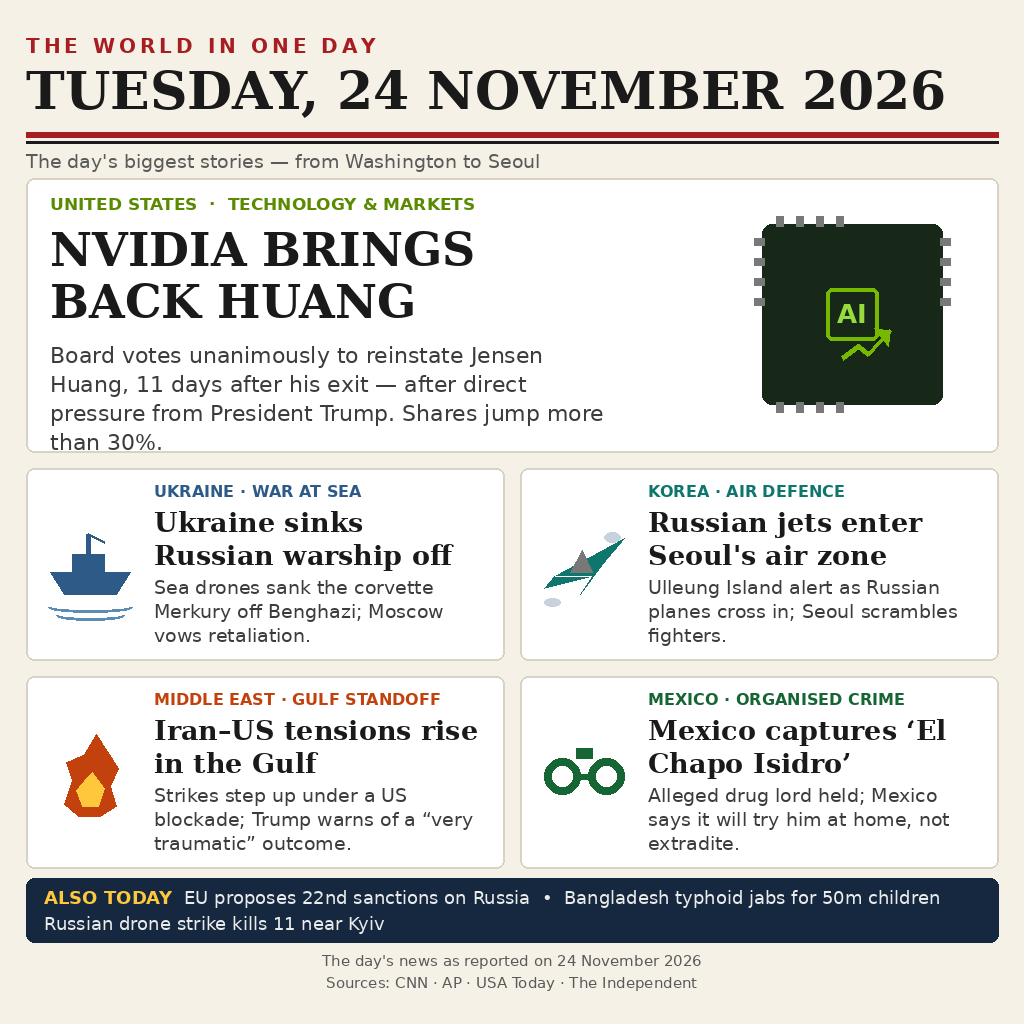
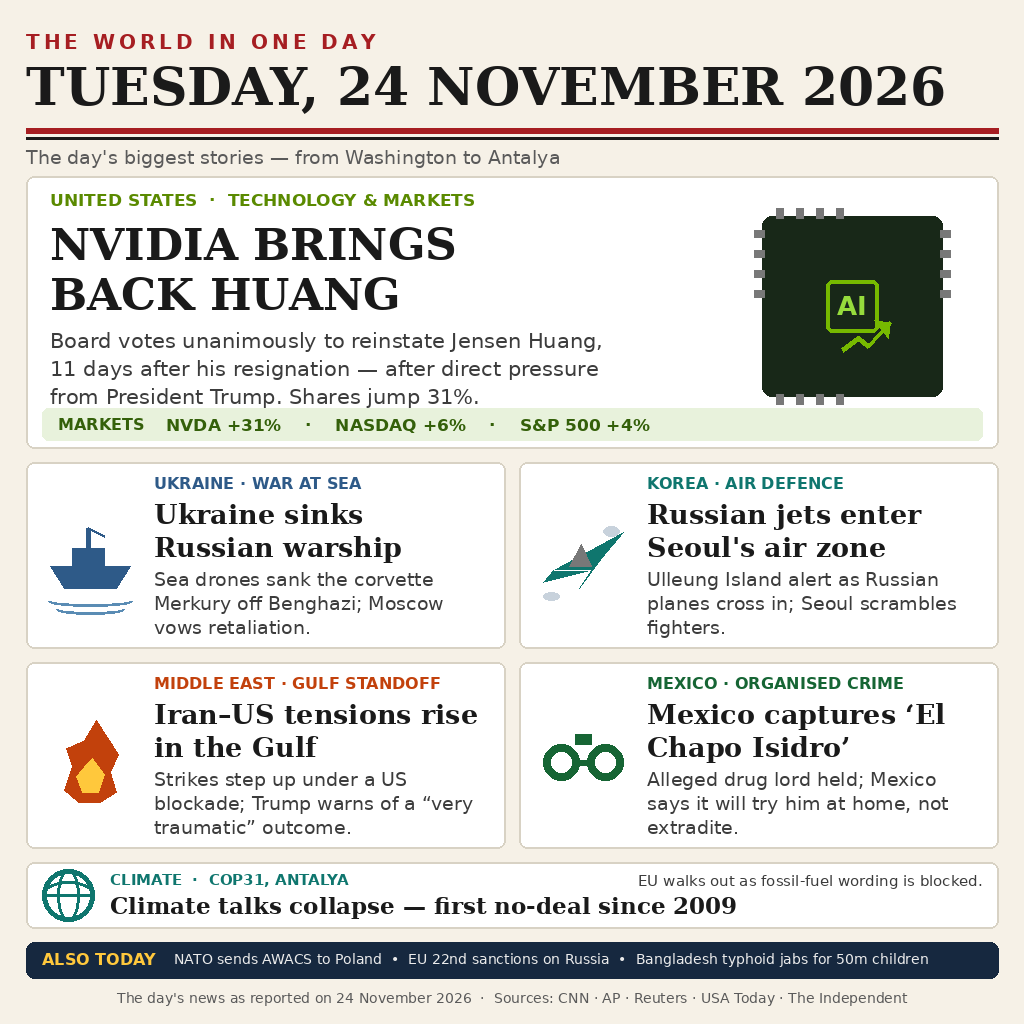
Version 2: markets strip, COP31 card, NATO ticker

diff --git a/build-image.py b/build-image.py
@@ -1,8 +1,13 @@
 #!/usr/bin/env python3
-"""Render the 24 November 2026 world-news front page (1024x1024 PNG).
+"""Render the 24 November 2026 world-news front page, version 2 (1024x1024 PNG).
+
+v2 changes over v1: markets data strip under the lead story (NVDA +31%,
+NASDAQ +6%, S&P 500 +4%); a full-width COP31 card (climate talks collapse,
+first no-deal since 2009); NATO AWACS / Poland missiles join the ticker;
+Ukraine headline shortened so it is no longer cut off at two lines.
 
 Deterministic: fixed text, fonts and drawing calls; no timestamps, no network.
-Output: entry.png next to this script (copied into the entry repo).
+Output: entry.png next to this script.
 """
 from PIL import Image, ImageDraw, ImageFont
 
@@ -15,6 +20,8 @@ RED = (166, 30, 34)
 NAVY = (22, 40, 63)
 RULE = (216, 210, 196)
 GREEN = (90, 138, 0)
+STRIP = (232, 242, 220)
+DARKGREEN = (52, 96, 10)
 
 SERIF_B = "/usr/share/fonts/truetype/dejavu/DejaVuSerif-Bold.ttf"
 SANS = "/usr/share/fonts/truetype/dejavu/DejaVuSans.ttf"
@@ -105,17 +112,26 @@ def icon_cuffs(d, box, accent):
     d.line([(x0 + 44, y0 + 48), (x0 + 52, y0 + 48)], fill=accent, width=6)
     d.rectangle([x0 + 40, y0 + 20, x0 + 56, y0 + 30], fill=accent)
 
+def icon_globe(d, box, accent):
+    x0, y0, x1, y1 = box
+    cx, cy = (x0 + x1) // 2, (y0 + y1) // 2
+    r = 26
+    d.ellipse([cx - r, cy - r, cx + r, cy + r], outline=accent, width=5)
+    d.ellipse([cx - 11, cy - r, cx + 11, cy + r], outline=accent, width=3)
+    d.line([(cx - r, cy), (cx + r, cy)], fill=accent, width=3)
+    d.arc([cx - r, cy - 14, cx + r, cy + 14], 200, 340, fill=accent, width=3)
+
 # ---------------- page ----------------
 img = Image.new("RGB", (W, H), PAPER)
 d = ImageDraw.Draw(img)
 MX = 26  # margin
 
 # masthead
-spaced(d, (MX, 34), "THE WORLD IN ONE DAY", font(SANS_B, 20), RED, tracking=4)
-d.text((MX, 60), "TUESDAY, 24 NOVEMBER 2026", font=font(SERIF_B, 52), fill=INK)
-d.rectangle([MX, 132, W - MX, 137], fill=RED)
-d.rectangle([MX, 141, W - MX, 143], fill=INK)
-d.text((MX, 150), "The day's biggest stories \u2014 from Washington to Seoul",
+spaced(d, (MX, 30), "THE WORLD IN ONE DAY", font(SANS_B, 20), RED, tracking=4)
+d.text((MX, 56), "TUESDAY, 24 NOVEMBER 2026", font=font(SERIF_B, 52), fill=INK)
+d.rectangle([MX, 128, W - MX, 133], fill=RED)
+d.rectangle([MX, 137, W - MX, 139], fill=INK)
+d.text((MX, 146), "The day's biggest stories \u2014 from Washington to Antalya",
        font=font(SANS, 19), fill=MUTED)
 
 def panel(x, y, w, h, kicker, accent, headline, sub, icon=None):
@@ -125,9 +141,9 @@ def panel(x, y, w, h, kicker, accent, headline, sub, icon=None):
         icon(d, (x + 16, y + 52, x + 112, y + 148), accent)
         tx = x + 128
     tw = x + w - 16 - tx
-    d.text((tx, y + 14), kicker, font=font(SANS_B, 16), fill=accent)
+    d.text((tx, y + 12), kicker, font=font(SANS_B, 16), fill=accent)
     lines = wrap(d, headline, font(SERIF_B, 27), tw)
-    yy = y + 38
+    yy = y + 36
     for ln in lines[:2]:
         d.text((tx, yy), ln, font=font(SERIF_B, 27), fill=INK)
         yy += 33
@@ -137,27 +153,33 @@ def panel(x, y, w, h, kicker, accent, headline, sub, icon=None):
         yy += 24
 
 # lead story
-LY, LH = 178, 274
+LY, LH = 176, 272
 d.rounded_rectangle([MX, LY, W - MX, LY + LH], radius=8, fill=CARD, outline=RULE, width=2)
-d.text((MX + 24, LY + 16), "UNITED STATES  \u00b7  TECHNOLOGY & MARKETS",
+d.text((MX + 24, LY + 14), "UNITED STATES  \u00b7  TECHNOLOGY & MARKETS",
        font=font(SANS_B, 17), fill=GREEN)
-d.text((MX + 24, LY + 44), "NVIDIA BRINGS", font=font(SERIF_B, 46), fill=INK)
-d.text((MX + 24, LY + 96), "BACK HUANG", font=font(SERIF_B, 46), fill=INK)
+d.text((MX + 24, LY + 42), "NVIDIA BRINGS", font=font(SERIF_B, 44), fill=INK)
+d.text((MX + 24, LY + 92), "BACK HUANG", font=font(SERIF_B, 44), fill=INK)
 lead_sub = ("Board votes unanimously to reinstate Jensen Huang, 11 days after "
-            "his exit \u2014 after direct pressure from President Trump. "
-            "Shares jump more than 30%.")
-lines = wrap(d, lead_sub, font(SANS, 22), 560)
-yy = LY + 164
+            "his resignation \u2014 after direct pressure from President Trump. "
+            "Shares jump 31%.")
+lines = wrap(d, lead_sub, font(SANS, 21), 560)
+yy = LY + 152
 for ln in lines:
-    d.text((MX + 24, yy), ln, font=font(SANS, 22), fill=(60, 60, 60))
-    yy += 29
-icon_chip(d, (W - MX - 236, LY + 46, W - MX - 56, LY + 226), GREEN)
+    d.text((MX + 24, yy), ln, font=font(SANS, 21), fill=(60, 60, 60))
+    yy += 28
+icon_chip(d, (W - MX - 236, LY + 40, W - MX - 56, LY + 220), GREEN)
+# markets strip inside the lead card
+d.rounded_rectangle([MX + 16, LY + LH - 40, W - MX - 16, LY + LH - 8],
+                    radius=6, fill=STRIP)
+d.text((MX + 32, LY + LH - 33), "MARKETS", font=font(SANS_B, 16), fill=DARKGREEN)
+d.text((MX + 140, LY + LH - 33), "NVDA +31%    \u00b7    NASDAQ +6%    \u00b7    S&P 500 +4%",
+       font=font(SANS_B, 17), fill=DARKGREEN)
 
 # 2x2 grid
-GY, GH, GAP = 468, 192, 16
+GY, GH, GAP = 462, 186, 14
 GW = (W - 2 * MX - GAP) // 2
 panel(MX, GY, GW, GH, "UKRAINE \u00b7 WAR AT SEA", (46, 90, 136),
-      "Ukraine sinks Russian warship off Libya",
+      "Ukraine sinks Russian warship",
       "Sea drones sank the corvette Merkury off Benghazi; Moscow vows retaliation.",
       icon_ship)
 panel(MX + GW + GAP, GY, GW, GH, "KOREA \u00b7 AIR DEFENCE", (15, 118, 110),
@@ -173,21 +195,27 @@ panel(MX + GW + GAP, GY + GH + GAP, GW, GH, "MEXICO \u00b7 ORGANISED CRIME", (22
       "Alleged drug lord held; Mexico says it will try him at home, not extradite.",
       icon_cuffs)
 
-# ticker (two lines so nothing is cut off)
-TY = 878
-d.rounded_rectangle([MX, TY, W - MX, TY + 64], radius=8, fill=NAVY)
-d.text((MX + 18, TY + 9), "ALSO TODAY", font=font(SANS_B, 18), fill=(255, 200, 60))
-d.text((MX + 158, TY + 9),
-       "EU proposes 22nd sanctions on Russia  \u2022  Bangladesh typhoid jabs for 50m children",
-       font=font(SANS, 18), fill=(235, 235, 235))
-d.text((MX + 18, TY + 35), "Russian drone strike kills 11 near Kyiv",
-       font=font(SANS, 18), fill=(235, 235, 235))
+# COP31 full-width card
+CY, CH = 862, 66
+d.rounded_rectangle([MX, CY, W - MX, CY + CH], radius=8, fill=CARD, outline=RULE, width=2)
+icon_globe(d, (MX + 14, CY + 8, MX + 70, CY + 58), (15, 118, 110))
+d.text((MX + 84, CY + 9), "CLIMATE  \u00b7  COP31, ANTALYA", font=font(SANS_B, 15), fill=(15, 118, 110))
+d.text((W - MX - 16, CY + 10), "EU walks out as fossil-fuel wording is blocked.",
+       font=font(SANS, 15), fill=(60, 60, 60), anchor="ra")
+d.text((MX + 84, CY + 30), "Climate talks collapse \u2014 first no-deal since 2009",
+       font=font(SERIF_B, 23), fill=INK)
+
+# ticker (one line)
+TY = 942
+d.rounded_rectangle([MX, TY, W - MX, TY + 36], radius=8, fill=NAVY)
+d.text((MX + 16, TY + 8), "ALSO TODAY", font=font(SANS_B, 16), fill=(255, 200, 60))
+d.text((MX + 148, TY + 9),
+       "NATO sends AWACS to Poland  \u2022  EU 22nd sanctions on Russia  \u2022  Bangladesh typhoid jabs for 50m children",
+       font=font(SANS, 14), fill=(235, 235, 235))
 
 # footer
-d.text((W // 2, 952), "The day's news as reported on 24 November 2026",
-       font=font(SANS, 15), fill=MUTED, anchor="ma")
-d.text((W // 2, 974), "Sources: CNN \u00b7 AP \u00b7 USA Today \u00b7 The Independent",
-       font=font(SANS, 15), fill=MUTED, anchor="ma")
+d.text((W // 2, 990), "The day's news as reported on 24 November 2026  \u00b7  Sources: CNN \u00b7 AP \u00b7 Reuters \u00b7 USA Today \u00b7 The Independent",
+       font=font(SANS, 14), fill=MUTED, anchor="ma")
 
 img.save("entry.png", format="PNG", optimize=True)
 print("saved entry.png", img.size)

diff --git a/NEWS.md b/NEWS.md
@@ -3,6 +3,24 @@
 Researched 2026-11-24 ~12:55 CST (04:55 UTC) via web news search.
 Rule: events that happened, or were first reported, on 24 November 2026 in any time zone.
 
+## Version 2 — 2026-11-24 ~14:30 CST (06:30 UTC)
+
+Second entry, same day. Changes over v1, all re-verified this afternoon:
+
+- **Markets strip under the lead** — NVDA +31% (Monday close; +33% in early trading),
+  NASDAQ +6%, S&P 500 +4% (Reuters, USA Today, Finimize daily brief 24 Nov).
+- **NEW card — COP31 climate talks collapse (Antalya, Türkiye)** — nearly 200 nations
+  failed to agree; EU delegates walked out of the closing plenary after a final deal
+  dropped any mention of fossil fuels' role in global warming, under pressure from Saudi
+  Arabia and other oil producers. First COP with no final agreement since Copenhagen 2009.
+  Sources: Reuters world news summary 24 Nov (via Devdiscourse), OpenSourceTrades.
+- **Ticker change** — NATO AWACS to Poland replaces the Kyiv drone strike: three Russian
+  Kh-101 missiles landed in Poland on Friday; NATO will deploy an early-warning aircraft
+  to Poland, a Polish deputy defence minister said Monday. Source: Reuters summary 24 Nov.
+- **Ukraine headline shortened** ("Ukraine sinks Russian warship") so it is no longer cut
+  off at the two-line limit; the Benghazi detail stays in the sub-line.
+- Lead sub-line now says "resignation" (not "exit") and "Shares jump 31%".
+
 ## Stories used in the image (6 + 3 in ticker)
 
 1. **LEAD — Nvidia reinstates Jensen Huang as CEO (US / tech & markets)**
@@ -54,5 +72,5 @@ Rule: events that happened, or were first reported, on 24 November 2026 in any t
 ## Not used
 - Israeli strikes in Gaza (3 killed incl. UNRWA worker) — verified but cut for space.
 - Virginia & Oregon sue SpaceX over Grok AI sexual imagery — verified but cut for space.
-- SoftBank $2B Intel investment; India 3rd in Asia Power Index; COP31 talks in Türkiye —
-  verified, cut for space/breadth balance.
+- SoftBank $2B Intel investment; India 3rd in Asia Power Index —
+  verified, cut for space/breadth balance. (COP31, listed here in v1, is used in v2.)
